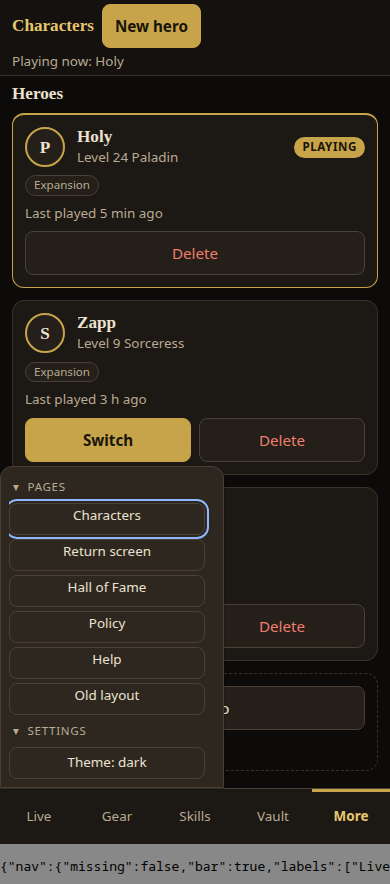
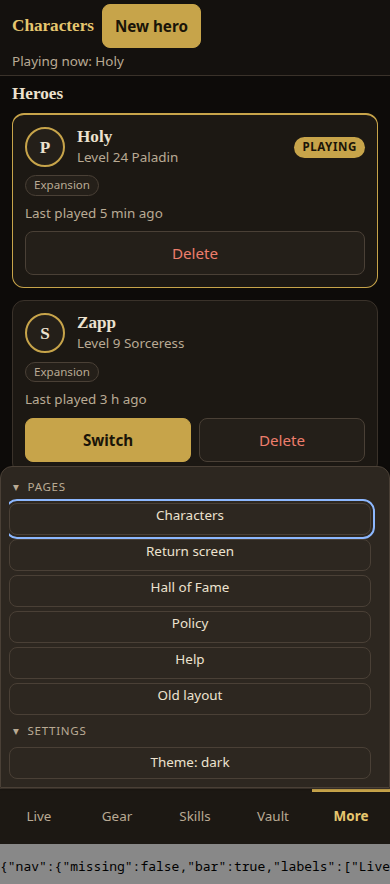
uinav2: task card result
Claude-Session: https://claude.ai/code/session_01VWpA3d2v1q8JscQAaAe5Re

Changed region(s): [[0.1538, 0.5192, 1.0, 0.9163], [0.1846, 0.7025, 0.3692, 0.7941]]

diff --git a/backlog/tasks/task-823 - uinav2-one-shared-navigation-on-every-page-Skills-area-sub-tabs-old-layout-bar-review-E4.md b/backlog/tasks/task-823 - uinav2-one-shared-navigation-on-every-page-Skills-area-sub-tabs-old-layout-bar-review-E4.md
@@ -2,6 +2,7 @@
 id: TASK-823
 title: 'uinav2: one shared navigation on every page, Skills area sub-tabs, old layout bar (review E4)'
 status: Proposed
+result: "Verified offline, not on a real phone: Go tests (TestNavEveryPage, TestNavJS, TestPageLinkMatrix, TestFitNavJudge), node test of nav.js (renders, one aria-current, More sheet focus in, Escape, focus back, Skills sub-tabs), and the fixture-viewer fit check on the worker host (full run: 1665 ok against 1634 on origin/main, no page that passed before fails except one flaky must-fail that passes alone; all nav-* pages and navdefect-* pass or fail as they must). Built: web/nav.json, nav.js, nav.css; every page loads it (live, Gear, Skills, Points, Vault, Characters, Return, Policy, Hall of Fame); the ... menu and the Inventory phone list are the More sheet; Points is the Points and Build sub-tabs of the Skills area; Old layout name and standing Switch back bar; Edit layout hidden on a phone; Hall of Fame in More, Pacts unlinked. Fit findings fixed: phone cockpit frame, Characters and Vault pages share the window with the bar and band. Pre-existing fit reds (vault scroll, 2 px overflows on Gear) are unchanged. Not done: Loot rules from non-live pages, Settings sheet beyond Theme (needs E10)."
 assignee:
   - credit-runner
 created_date: '2026-11-22T20:46:00Z'
@@ -62,10 +63,10 @@ Why: TODO. Done when: TODO.
 
 ## Acceptance Criteria
 <!-- AC:BEGIN -->
-- [ ] #1 TestNavEveryPage, TestNavJS and the link matrix fail on the old pages and pass now
-- [ ] #2 nav.json/nav.js/nav.css: five destinations, bottom bar under 700 px, band links above, one aria-current, More sheet replaces the ... menu on every page
-- [ ] #3 Points merged into the Skills area as sub-tabs Tree, Points, Build; old routes keep working
-- [ ] #4 Old layout naming and standing Switch back bar; Hall of Fame in More, Pacts unlinked
-- [ ] #5 uishots fit pages nav-<page> at 390x844 and 1366x768 pass and navdefect-* fail; cockpit fit check run, findings fixed or listed
-- [ ] #6 Before/after pictures in docs/ui/nav-shared; docs/ui-design-system.md section 4.6
+- [x] #1 TestNavEveryPage, TestNavJS and the link matrix fail on the old pages and pass now
+- [x] #2 nav.json/nav.js/nav.css: five destinations, bottom bar under 700 px, band links above, one aria-current, More sheet replaces the ... menu on every page
+- [x] #3 Points merged into the Skills area as sub-tabs Tree, Points, Build; old routes keep working
+- [x] #4 Old layout naming and standing Switch back bar; Hall of Fame in More, Pacts unlinked
+- [x] #5 uishots fit pages nav-<page> at 390x844 and 1366x768 pass and navdefect-* fail; cockpit fit check run, findings fixed or listed
+- [x] #6 Before/after pictures in docs/ui/nav-shared; docs/ui-design-system.md section 4.6
 <!-- AC:END -->
